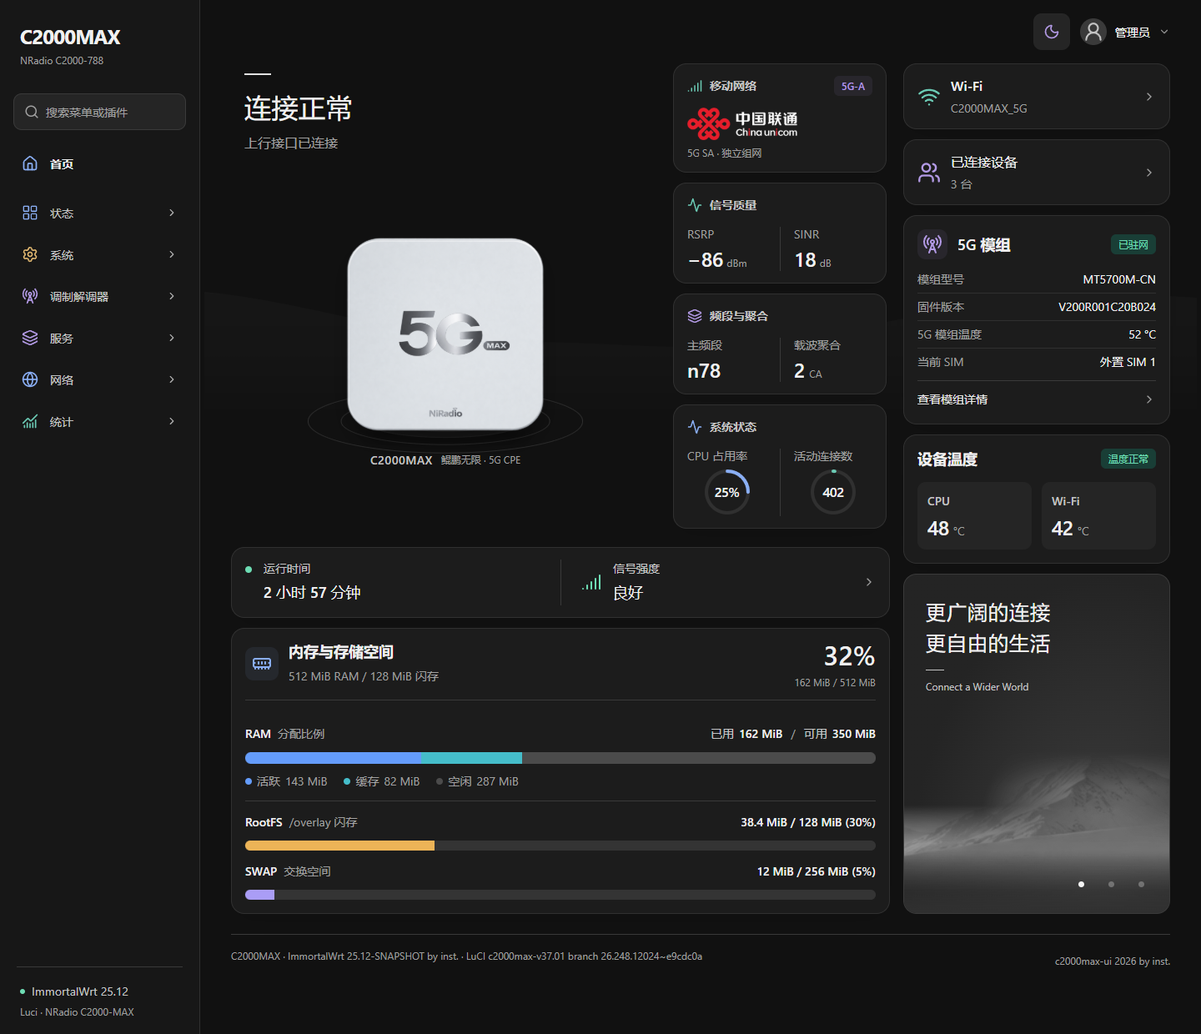
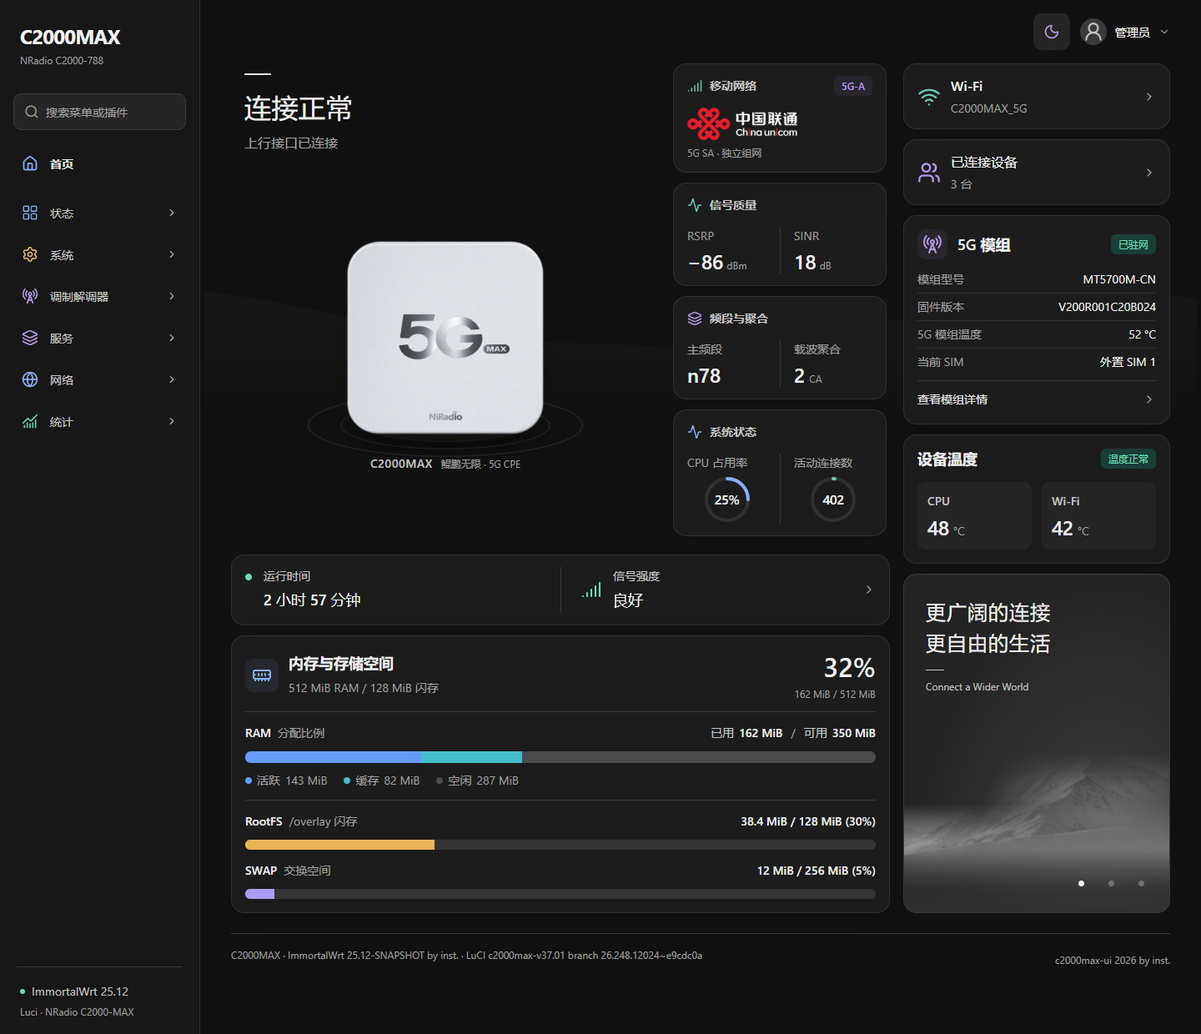
Fix transient system data loss and refine resource card layouts

diff --git a/htdocs/luci-static/c2000max-ui/dashboard.html b/htdocs/luci-static/c2000max-ui/dashboard.html
@@ -15,8 +15,8 @@
             <div class="metric ui-card radio-card system-status-card" role="region" aria-labelledby="system-status-title">
               <dt class="radio-card-heading" id="system-status-title"><span><svg class="icon icon-tone-network" aria-hidden="true"><use href="#activity"/></svg>系统状态</span></dt>
               <dd class="radio-card-values system-status-grid">
-                <div class="system-status-item"><div class="system-status-copy"><span class="stat-label">CPU 占用率</span><small id="cpu-usage-detail">采样中</small></div><div class="status-ring cpu-ring" id="cpu-usage-ring" role="progressbar" aria-label="CPU 占用率" aria-valuemin="0" aria-valuemax="100" aria-valuetext="采样中"><svg viewBox="0 0 100 100" aria-hidden="true"><circle class="status-ring-track" cx="50" cy="50" r="43"/><circle class="status-ring-fill" cx="50" cy="50" r="43" pathLength="100" stroke-dasharray="100" stroke-dashoffset="100"/></svg><span class="status-ring-value" id="cpu-usage-value">—</span></div></div>
-                <div class="system-status-item"><div class="system-status-copy"><span class="stat-label">活动连接数</span><small id="connections-detail">未获取</small></div><div class="status-ring connections-ring" id="connections-ring" role="progressbar" aria-label="活动连接占用比例" aria-valuemin="0" aria-valuemax="100" aria-valuetext="未获取"><svg viewBox="0 0 100 100" aria-hidden="true"><circle class="status-ring-track" cx="50" cy="50" r="43"/><circle class="status-ring-fill" cx="50" cy="50" r="43" pathLength="100" stroke-dasharray="100" stroke-dashoffset="100"/></svg><span class="status-ring-value" id="connections-value">—</span></div></div>
+                <div class="system-status-item"><span class="stat-label">CPU 占用率</span><small id="cpu-usage-detail" hidden>采样中</small><div class="status-ring cpu-ring" id="cpu-usage-ring" role="progressbar" aria-label="CPU 占用率" aria-valuemin="0" aria-valuemax="100" aria-valuetext="采样中"><svg viewBox="0 0 100 100" aria-hidden="true"><circle class="status-ring-track" cx="50" cy="50" r="43"/><circle class="status-ring-fill" cx="50" cy="50" r="43" pathLength="100" stroke-dasharray="100" stroke-dashoffset="100"/></svg><span class="status-ring-value" id="cpu-usage-value">—</span></div></div>
+                <div class="system-status-item"><span class="stat-label">活动连接数</span><small id="connections-detail" hidden>未获取</small><div class="status-ring connections-ring" id="connections-ring" role="progressbar" aria-label="活动连接占用比例" aria-valuemin="0" aria-valuemax="100" aria-valuetext="未获取"><svg viewBox="0 0 100 100" aria-hidden="true"><circle class="status-ring-track" cx="50" cy="50" r="43"/><circle class="status-ring-fill" cx="50" cy="50" r="43" pathLength="100" stroke-dasharray="100" stroke-dashoffset="100"/></svg><span class="status-ring-value" id="connections-value">—</span></div></div>
               </dd>
             </div>
           </dl>
@@ -26,10 +26,11 @@
           <button class="signal-health" data-panel="signal"><svg class="icon icon-tone-signal"><use href="#signal"/></svg><div><span class="health-label">信号强度</span><p id="signal-quality">—</p></div><svg class="icon chevron"><use href="#chevron"/></svg></button>
         </div>
         <section class="resource-card ui-card" aria-labelledby="resource-title">
-          <header class="resource-header"><span class="ui-icon-box icon-tone-network"><svg class="icon icon-tone-network" aria-hidden="true"><use href="#memory"/></svg></span><div><h2 id="resource-title">内存与存储空间</h2><p id="resource-capacity">—</p></div><div class="resource-total"><strong id="ram-percent">—</strong><span id="ram-total-detail">—</span></div></header>
+          <header class="resource-header"><span class="ui-icon-box icon-tone-network"><svg class="icon icon-tone-network" aria-hidden="true"><use href="#memory"/></svg></span><div class="resource-heading"><h2 id="resource-title">内存与存储空间</h2><p id="resource-capacity">—</p></div><div class="resource-total"><strong id="ram-percent">—</strong><span id="ram-total-detail">—</span></div></header>
+          <p class="resource-note" id="resource-note" role="status" hidden></p>
           <div class="ram-section">
             <div class="resource-row"><span><strong>RAM</strong><span class="resource-muted">分配比例</span></span><span class="resource-values">已用 <b id="ram-used">—</b><span class="resource-divider">/</span>可用 <b id="ram-free">—</b></span></div>
-            <div class="ram-bar ui-progress" role="img" id="ram-bar" aria-label="RAM 数据未获取"><i class="ram-active" id="ram-active-bar"></i><i class="ram-cached" id="ram-cache-bar"></i><i class="ram-unused" id="ram-free-bar"></i></div>
+            <div class="ram-bar ui-progress" role="img" id="ram-bar" aria-label="RAM 数据未获取"><i class="ram-active" id="ram-active-bar"></i><i class="ram-cached" id="ram-cache-bar"></i></div>
             <ul class="ram-legend"><li><i class="legend-active"></i>活跃 <span id="ram-active-label">—</span></li><li><i class="legend-cache"></i>缓存 <span id="ram-cache-label">—</span></li><li><i class="legend-free"></i>空闲 <span id="ram-free-label">—</span></li></ul>
           </div>
           <div class="storage-section"><div class="resource-row"><span><strong>RootFS</strong><span class="resource-muted">/overlay 闪存</span></span><b class="storage-value" id="flash-label">—</b></div><div class="storage-bar ui-progress" id="flash-bar" role="progressbar" aria-label="RootFS 闪存占用" aria-valuemin="0" aria-valuemax="100" ><i class="flash-fill" id="flash-fill"></i></div></div>

diff --git a/htdocs/luci-static/resources/view/c2000max/home.js b/htdocs/luci-static/resources/view/c2000max/home.js
@@ -5,7 +5,7 @@
 'require poll';
 'require request';
 
-var systemInfo=rpc.declare({object:'system',method:'info'});
+var systemInfo=rpc.declare({object:'system',method:'info',reject:true,nobatch:true});
 var interfaceInfo=rpc.declare({object:'network.interface',method:'dump'});
 var wirelessInfo=rpc.declare({object:'network.wireless',method:'status',reject:true});
 var clientInfo=rpc.declare({object:'c2000max.ui',method:'clients',reject:true});
@@ -22,7 +22,7 @@ var modemInfo=rpc.declare({object:'c2000max.ui',method:'modem',params:['section'
 return view.extend({
  load: function() {
   // Shell and placeholders render immediately; optional plugins cannot block the view.
-  return request.get(L.env.media+'/dashboard.html?v='+encodeURIComponent(L.env.resource_version||'1.0.20-r1'),{cache:true}).then(function(response) {
+  return request.get(L.env.media+'/dashboard.html?v='+encodeURIComponent(L.env.resource_version||'1.0.21-r1'),{cache:true}).then(function(response) {
    if(!response.ok)throw new Error('Dashboard template unavailable');
    return response.text();
   });
@@ -45,20 +45,26 @@ return view.extend({
    started=true;
    return !stopped&&!document.hidden;
   }
+  function updateDashboard() {
+   state.system=window.C2000Data.systemSnapshot(state.system);
+   dashboard.update(state);
+  }
   // Prevent hung optional RPCs from queuing more calls. Successful groups update independently.
   function call(key,fn,done) {
    if(busy[key])return;
    busy[key]=true;
    Promise.resolve().then(fn).then(function(value) {
     if(stopped)return;
-    if(key==='modem')state.modem=window.C2000Data.modemSnapshot(state.modem,value||{});
+    if(key==='system')state.system=window.C2000Data.systemSnapshot(state.system,value??null);
+    else if(key==='modem')state.modem=window.C2000Data.modemSnapshot(state.modem,value||{});
     else state[key]=key==='sim'?{...value,receivedAt:Date.now()}:value;
-    dashboard.update(state);
+    updateDashboard();
     if(key==='metrics'&&!metricsPrimed){metricsPrimed=true;primeTimer=window.setTimeout(refreshMetrics,1000);}
    }).catch(function() {
     if(stopped)return;
-    if(key!=='modem'&&key!=='sim')state[key]=key==='wireless'?null:{};
-    dashboard.update(state);
+    if(key==='system')state.system=window.C2000Data.systemSnapshot(state.system,null);
+    else if(key!=='modem'&&key!=='sim')state[key]=key==='wireless'?null:{};
+    updateDashboard();
    }).finally(function(){busy[key]=false;if(!stopped&&done)done();});
   }
   function refreshMetrics() {
@@ -71,7 +77,7 @@ return view.extend({
   }
   function refreshModem() {
    if(!active()||!state.section)return;
-   dashboard.update(state); // Expire old fields even while a query is pending.
+   updateDashboard(); // Expire old fields even while a query is pending.
    refreshCache();
    if(Object.keys(reads).some(function(key){return busy[key];}))return;
    var key=Object.keys(reads).find(function(key){return Date.now()>=reads[key].next;});
@@ -85,6 +91,7 @@ return view.extend({
   }
   function refresh() {
    if(!active())return;
+   updateDashboard();
    call('system',systemInfo);call('network',interfaceInfo);call('wireless',wirelessInfo);
    if(Date.now()-lastSensors>20000){lastSensors=Date.now();call('sensors',sensorsInfo);}
    if(Date.now()-lastSim>30000){lastSim=Date.now();call('sim',simInfo);}

diff --git a/htdocs/luci-static/c2000max-ui/c2000max.css b/htdocs/luci-static/c2000max-ui/c2000max.css
@@ -14,8 +14,7 @@
 .status-ring.is-high { --ring-color:var(--warning); }
 .status-ring-value { font-size:16px; font-weight:600; line-height:1; letter-spacing:-.5px; font-variant-numeric:tabular-nums; }
 .status-ring.is-large .status-ring-value { font-size:11px; }
-.system-status-copy { min-width:0; width:100%; }
-.system-status-copy small { display:none; }
+.system-status-item > .stat-label { min-width:0; width:100%; }
 .ui-badge.network-advanced { color:var(--icon-device); background:var(--icon-device-soft); }
 @media(prefers-reduced-motion:reduce) { .status-ring-fill { transition:none; } }
 
@@ -48,7 +47,9 @@
 .signal-health > .icon:first-child { color: var(--success); }
 .chevron { color: var(--text-muted); width: 16px; height: 16px; margin-left: auto; }
 .resource-card { flex: 1; display: flex; flex-direction: column; }
-.resource-header { display: grid; grid-template-columns: auto minmax(0,1fr) auto; align-items: center; gap: 12px; padding-bottom: 20px; border-bottom: 1px solid var(--border); }
+.resource-header { display: grid; grid-template-columns: auto minmax(0,1fr) auto; align-items: center; gap: 12px; margin:0; padding-bottom: 20px; border-bottom: 1px solid var(--border); }
+.resource-note { color:var(--text-muted); font-size:var(--text-xs); margin:12px 0 0; }
+.resource-note[hidden] { display:none; }
 .resource-header h2 { font-size: var(--text-lg); font-weight: 600; line-height: 1.4; margin: 0 0 4px; }
 .resource-header p { font-size: var(--text-sm); color: var(--text-muted); margin: 0; }
 .resource-total { display: flex; flex-direction: column; align-items: flex-end; gap: 4px; }
@@ -140,8 +141,13 @@ body.disconnected .operator-logo { opacity: .5; }
   .health-card { padding: 20px; }
   .uptime { gap: 10px; }
   .signal-health { gap: 10px; padding-left: 20px; }
-  .resource-header { grid-template-columns: minmax(0,1fr) auto; gap: 12px; }
-  .resource-header .ui-icon-box { display: none; }
+  .resource-header { grid-template-columns:32px minmax(0,1fr) auto; grid-template-areas:"icon title total" "capacity capacity capacity"; gap:10px 8px; }
+  .resource-header .ui-icon-box { display:grid; grid-area:icon; width:32px; height:32px; }
+  .resource-header .ui-icon-box .icon { width:20px; height:20px; }
+  .resource-heading { display:contents; }
+  .resource-header h2 { grid-area:title; margin:0; }
+  .resource-header p { grid-area:capacity; }
+  .resource-total { grid-area:total; }
   .resource-total > span { display: none; }
   .resource-header p { font-size: var(--text-xs); }
   .resource-header h2 { font-size: var(--text-lg); }

diff --git a/htdocs/luci-static/c2000max-ui/data.js b/htdocs/luci-static/c2000max-ui/data.js
@@ -34,6 +34,32 @@ function resources(info={}) {
   swap:{total:swTotal!==null&&swTotal>=0?swTotal/MiB:null,used:swTotal!==null&&swFree!==null&&swFree>=0&&swFree<=swTotal?(swTotal-swFree)/MiB:null}
  };
 }
+// Preserve valid system groups across short failures without refreshing their age.
+function systemSnapshot(previous={},incoming,now=Date.now()) {
+ const reply=incoming&&typeof incoming==='object'&&!Array.isArray(incoming)?incoming:{};
+ const reboot=number(reply.uptime)!==null&&Number(reply.uptime)>=0&&number(previous.uptime)!==null&&Number(reply.uptime)<Number(previous.uptime);
+ const old=reboot?{}:previous, samples={}, result={};
+ const converted=resources(reply);
+ const valid={
+  uptime:number(reply.uptime)!==null&&Number(reply.uptime)>=0,
+  memory:converted.memory.total>0&&converted.memory.active!==null&&converted.memory.cache!==null,
+  root:converted.flash.total>0&&converted.flash.used!==null,
+  swap:converted.swap.total===0||(converted.swap.total>0&&converted.swap.used!==null)
+ };
+ let incomplete=incoming===undefined?!!old.incomplete:false;
+ for(const key of ['uptime','memory','root','swap']) {
+  if(valid[key]) {
+   result[key]=key==='uptime'?Number(reply[key]):{...reply[key]};samples[key]=now;
+  } else {
+   if(incoming!==undefined)incomplete=true;
+   const stamp=number(old.samples?.[key]);
+   if(stamp!==null&&now-stamp>=0&&now-stamp<=60000){result[key]=old[key];samples[key]=stamp;}
+  }
+ }
+ const count=Object.keys(samples).length;
+ const delayed=Object.values(samples).some(stamp=>now-stamp>30000);
+ return {...result,samples,incomplete,cacheStatus:count===0?'missing':incomplete||count<4||delayed?'cached':'fresh'};
+}
 function hardware(raw={},config={}) {
  const cpu=raw.cpu_sensor ? bounded(number(raw.cpu_temp)===null?null:Number(raw.cpu_temp)/1000,-40,150) : null;
  const wifiValues=(Array.isArray(raw.wifi_temps)?raw.wifi_temps:[]).map(v=>bounded(number(v.milli_c)===null?null:Number(v.milli_c)/1000,-40,150)).filter(v=>v!==null);
@@ -192,5 +218,5 @@ function uptime(seconds) {
  const d=Math.floor(n/86400),h=Math.floor(n/3600)%24,m=Math.floor(n/60)%60;
  return (d?d+' 天 ':'')+(h?h+' 小时 ': '')+m+' 分钟';
 }
-return Object.freeze({number,measured,bounded,resources,hardware,modem,modemSnapshot,network,metrics,uptime});
+return Object.freeze({number,measured,bounded,resources,systemSnapshot,hardware,modem,modemSnapshot,network,metrics,uptime});
 });

diff --git a/htdocs/luci-static/c2000max-ui/dashboard.js b/htdocs/luci-static/c2000max-ui/dashboard.js
@@ -114,8 +114,9 @@ function mount(root, url) {
   set('ram-total-detail',amount(committed)+' / '+amount(m.total));set('ram-used',amount(committed));set('ram-free',amount(available));
   for(const [key,value] of [['active',m.active],['cache',m.cache],['free',free]]) {
    set('ram-'+key+'-label',valid?amount(value):'—');
-   fillProgress($('#ram-'+key+'-bar'),valid?value/m.total*100:0);
+   if(key!=='free')fillProgress($('#ram-'+key+'-bar'),valid?value/m.total*100:0);
   }
+  $('#ram-bar').classList.toggle('unavailable',!valid);
   $('#ram-bar').setAttribute('aria-label',valid?'RAM：使用 '+amount(used)+'，空闲 '+amount(free):'RAM 数据未获取');
   [['flash',flash],['swap',swap]].forEach(([key,s])=>{
    const valid=Number.isFinite(s.total)&&s.total>0&&Number.isFinite(s.used);
@@ -152,6 +153,9 @@ function mount(root, url) {
   renderResources(D.resources(data.system));
   renderMetrics(data.metrics);
   set('uptime-value',D.uptime(data.system?.uptime));
+  const systemNote=data.system?.cacheStatus==='cached'?'数据更新稍慢，显示最近有效读数。':data.system?.cacheStatus==='missing'?'系统数据暂未取得，正在重试。':'';
+  set('resource-note',systemNote);$('#resource-note').hidden=!systemNote;
+  $('#uptime-value').title=systemNote;
   set('connection-heading',n.connected===null?'正在获取状态':n.connected?'连接正常':'上行未连接');
   set('connection-description',n.connected===null?'暂未取得设备状态':n.connected?'上行接口已连接':'请检查上行接口与拨号状态');
   set('wifi-name',n.ssid??'未获取无线信息');

diff --git a/htdocs/luci-static/c2000max-ui/components.css b/htdocs/luci-static/c2000max-ui/components.css
@@ -66,7 +66,7 @@ h1, h2, h3, p { margin-top: 0; }
 .radio-card-values { display: grid; grid-template-columns: repeat(2,minmax(0,1fr)); margin: 0; }
 .radio-card-values > div { min-width: 0; }
 .radio-card-values > div + div { border-left: 1px solid var(--border); padding-left: 16px; }
-.radio-card-values .stat-label { color: var(--text-muted); font-size: var(--text-sm); font-weight: 400; }
+.radio-card-values .stat-label { color: var(--text-muted); font: 400 var(--text-sm)/1.5 var(--font-sans); }
 .radio-value { display: flex; align-items: baseline; gap: 4px; margin-top: 5px; white-space: nowrap; }
 .radio-value strong { color: var(--text); font-size: var(--text-xl); line-height: var(--leading-tight); font-weight: 600; font-variant-numeric: tabular-nums; }
 .radio-value small { color: var(--text-muted); font-size: var(--text-xs); font-weight: 400; }
@@ -79,7 +79,8 @@ h1, h2, h3, p { margin-top: 0; }
 .resource-card .ui-progress > i { width: 0; transition: width .65s cubic-bezier(.22,.61,.36,1); }
 .ui-progress > .ram-active, .legend-active { background: var(--ram-active); }
 .ui-progress > .ram-cached, .legend-cache { background: var(--ram-cache); }
-.ui-progress > .ram-unused, .legend-free { background: var(--ram-free); }
+.ram-bar { background: var(--ram-free); }
+.legend-free { background: var(--ram-free); }
 .ui-progress > .flash-fill { background: var(--flash); }
 .ui-progress > .swap-fill { background: var(--swap); }
 .ui-progress.unavailable { background: var(--track); }

diff --git a/htdocs/luci-static/c2000max-ui/luci-adapter.css b/htdocs/luci-static/c2000max-ui/luci-adapter.css
@@ -210,5 +210,11 @@ body.c2000-ui { padding-top:0; background:var(--page); color:var(--text); font:v
 }
 .c2000-ui .quick-access .thermal-card { width:100%; box-sizing:border-box; align-self:stretch; }
 .c2000-ui .td.cbi-section-actions > div > button { flex:0 0 auto; }
-@media(max-width:1279px) { .c2000-ui .quick-access .thermal-card { align-self:start; } }
+@media(min-width:701px) and (max-width:1279px) {
+ .c2000-ui .quick-access .thermal-card { align-self:stretch; display:flex; flex-direction:column; }
+ .c2000-ui .thermal-card .temperature-grid { flex:1; }
+ .c2000-ui .thermal-card .stat-tile { display:grid; grid-template-columns:max-content auto; column-gap:4px; align-content:center; }
+ .c2000-ui .thermal-card .stat-label { grid-column:1 / -1; }
+ .c2000-ui .thermal-card .stat-unit { align-self:end; }
+}
 .c2000-ui .cbi-dropdown[open] > ul.dropdown { transition:none; }

diff --git a/htdocs/luci-static/c2000max-ui/density.css b/htdocs/luci-static/c2000max-ui/density.css
@@ -142,6 +142,8 @@
  .c2000-ui .theme-picker > .theme-control { height:auto; }
  .c2000-ui .metric.radio-card { padding:14px 16px; }
  .c2000-ui .device-scene { max-width:260px; }
+ .c2000-ui .resource-card { padding:20px 16px; }
+ .c2000-ui .resource-header h2 { font-size:var(--text-md); }
 }
 
 /* Header actions and status dialogs use theme tokens in both color modes. */

diff --git a/README.md b/README.md
@@ -6,7 +6,7 @@
 
 从登录页和移动网络状态，到系统资源、温度与手机管理界面。
 
-[![Version](https://img.shields.io/badge/Version-1.0.20--r1-5e91d8)](Makefile)
+[![Version](https://img.shields.io/badge/Version-1.0.21--r1-5e91d8)](Makefile)
 [![LuCI](https://img.shields.io/badge/LuCI-ucode-41b8a4)](https://github.com/openwrt/luci)
 [![Node](https://img.shields.io/badge/Node.js-20%2B-5a956c)](https://nodejs.org/)
 [![License](https://img.shields.io/badge/License-Apache--2.0-blue)](LICENSE)
@@ -22,7 +22,7 @@
 
 C2000MAX-UI 将设备登录、移动网络读数和系统状态整合到 LuCI 首页，并为原生配置页面提供统一的外观。主题源码、资源、构建工具和测试在本仓库中独立维护，可直接接入 OpenWrt 构建树。
 
-当前版本：`1.0.20-r1`。
+当前版本：`1.0.21-r1`。
 
 ```mermaid
 flowchart LR
@@ -35,7 +35,7 @@ flowchart LR
 
 ## 界面预览
 
-以下截图来自 `1.0.20-r1` 的本地浏览器预览，使用示例数据。设备读数和菜单会随固件、插件与配置变化；登录页展示仓库附带的 Bing 回退壁纸，并保留原始署名。
+以下截图来自 `1.0.21-r1` 的本地浏览器预览，使用示例数据。设备读数和菜单会随固件、插件与配置变化；登录页展示仓库附带的 Bing 回退壁纸，并保留原始署名。
 
 ### 经典银白 · 浅色
 
@@ -67,6 +67,7 @@ flowchart LR
 - 登录页：Bing 每日壁纸、原生 LuCI 认证、密码显示切换；手机壁纸署名最多两行，不遮挡表单。
 - 首页：运营商、5G / 5G-A、信号质量、主频段与载波聚合、模组型号/固件/温度/SIM。
 - 系统状态：CPU 占用率与活动连接数圆环、运行时间、CPU/Wi-Fi 温度、内存/RootFS/SWAP。
+- 系统读取短暂失败时保留近期有效读数，各资源组独立过期；RAM 空闲部分直接显示，只对已用部分做动画。
 - 模组数据独立刷新，短暂失败保留有效样本，过期数值显示缺失；接口缓慢不会阻塞其他卡片。
 - 浅色、深色、跟随系统，经典银白及节日外观；手机菜单搜索、抽屉和底部快捷导航。
 - 适配原生 LuCI 表单、表格、页签、下拉框、弹窗和保存/应用流程。
@@ -126,7 +127,7 @@ OPENWRT_ROOT=/path/to/openwrt bash tools/build-local.sh
 将匹配固件的 APK 上传到设备 `/tmp` 后运行：
 
 ```sh
-apk add --allow-untrusted --no-network /tmp/luci-theme-c2000max-ui-1.0.20-r1.apk
+apk add --allow-untrusted --no-network /tmp/luci-theme-c2000max-ui-1.0.21-r1.apk
 uci set luci.main.mediaurlbase='/luci-static/c2000max-ui'
 uci commit luci
 /etc/init.d/rpcd reload

diff --git a/docs/INTEGRATION.md b/docs/INTEGRATION.md
@@ -20,7 +20,11 @@
 
 ## 刷新与隔离
 
-`home.js` 先显示页面占位，再按组异步更新；其他基础状态每 10 秒更新。每组有 busy 标记，挂起期间不排队。模组 base/cell、缓存、SIM、传感器及 CPU 采样均使用独立 HTTP 请求，不加入快速状态的 RPC 批处理；沿用 LuCI 的请求超时。首页自己的两类串口读取串行执行，避免相互争抢 AT 锁；失败后 5 秒重试。慢查询不阻塞其他卡片，返回前台立即补读。
+`home.js` 先显示页面占位，再按组异步更新；其他基础状态每 10 秒更新。每组有 busy 标记，挂起期间不排队。system.info、模组 base/cell、缓存、SIM、传感器及 CPU 采样均使用独立 HTTP 请求，不加入快速状态的 RPC 批处理；沿用 LuCI 的请求超时。首页自己的两类串口读取串行执行，避免相互争抢 AT 锁；失败后 5 秒重试。慢查询不阻塞其他卡片，返回前台立即补读。
+
+运行时间、内存、RootFS 和 SWAP 分组保存有效样本。系统请求超时、错误码、空响应或部分字段无效时，保留该组最近 60 秒内的有效值，其他有效组继续更新；失败重试和其他 RPC 不会延长样本有效期。更新失败或延迟超过 30 秒时显示简短提示，超过 60 秒的组恢复缺失占位。运行时间回退时清除旧启动周期的资源样本。
+
+RAM 分配条以固定的空闲底色铺满，活跃与缓存部分做宽度过渡；空闲没有独立填充动画。图例仍显示实际空闲量，与 MemAvailable 的可用量区分。
 
 系统状态每 5 秒独立采样，首个 CPU 样本后补采一次以建立占用率。重复的其他 RPC 更新不会重复消耗 CPU 样本；计数回退、请求失败或缺失字段显示占位，不伪装为 0%。metrics 只读三个固定内核状态文件，不等待、不执行命令。
 

diff --git a/docs/VALIDATION.md b/docs/VALIDATION.md
@@ -1,6 +1,6 @@
 # 验证记录
 
-版本：`1.0.20-r1`；日期：2026-10-05。
+版本：`1.0.21-r1`；日期：2026-10-05。
 
 ## 独立仓库验证
 
@@ -12,6 +12,7 @@
 ## 已通过的检查
 
 - 数据转换：CPU 差分采样、活动连接、内存单位、空值、温度、运营商、SA/NSA、LTE 与聚合。
+- 系统刷新：请求超时、错误码、空响应和部分字段无效不会清空近期读数；分组过期、恢复及设备重启均已验证。
 - 模组刷新：部分失败、样本过期、聚合变化、延迟响应、网络制式变化和设备隔离。
 - 节日外观：北京时间边界、手动选择、刷新持久化、后台恢复和跨标签页更新。
 - ucode：所有模板及 RPC 编译，首页与登录/错误登录模板实际渲染；壁纸服务脚本语法检查。
@@ -19,9 +20,10 @@
 - 浏览器：首页、登录、代表性 LuCI 表单的浅/深外观及六种宽度，共 36 组布局；无横向溢出和脚本错误。
 - 页脚：管理页与登录页署名链接指向本仓库，在新标签页打开并包含 `noopener noreferrer`。
 - 系统状态：文字左对齐、圆环留白对称、分隔样式一致；四种桌面/平板宽度与四种外观，另检查四种手机宽度。
+- 资源布局：手机图标与标题留白、系统/频段标签字体一致、双列布局的模组与温度卡片等高；浅/深外观共 28 组尺寸检查。
 - 登录壁纸：长署名不覆盖表单；离线回退、重新联网、失败保留原图和署名转义。
 - 首页控制器：可选接口缓慢不阻塞其他卡片，不重复排队，模板缓存键随包更新。
-- 内存与存储进度动画及减少动态效果偏好。
+- 内存与存储进度动画及减少动态效果偏好；RAM 空闲底色保持全宽，不参与填充动画。
 
 ## 重跑入口
 
